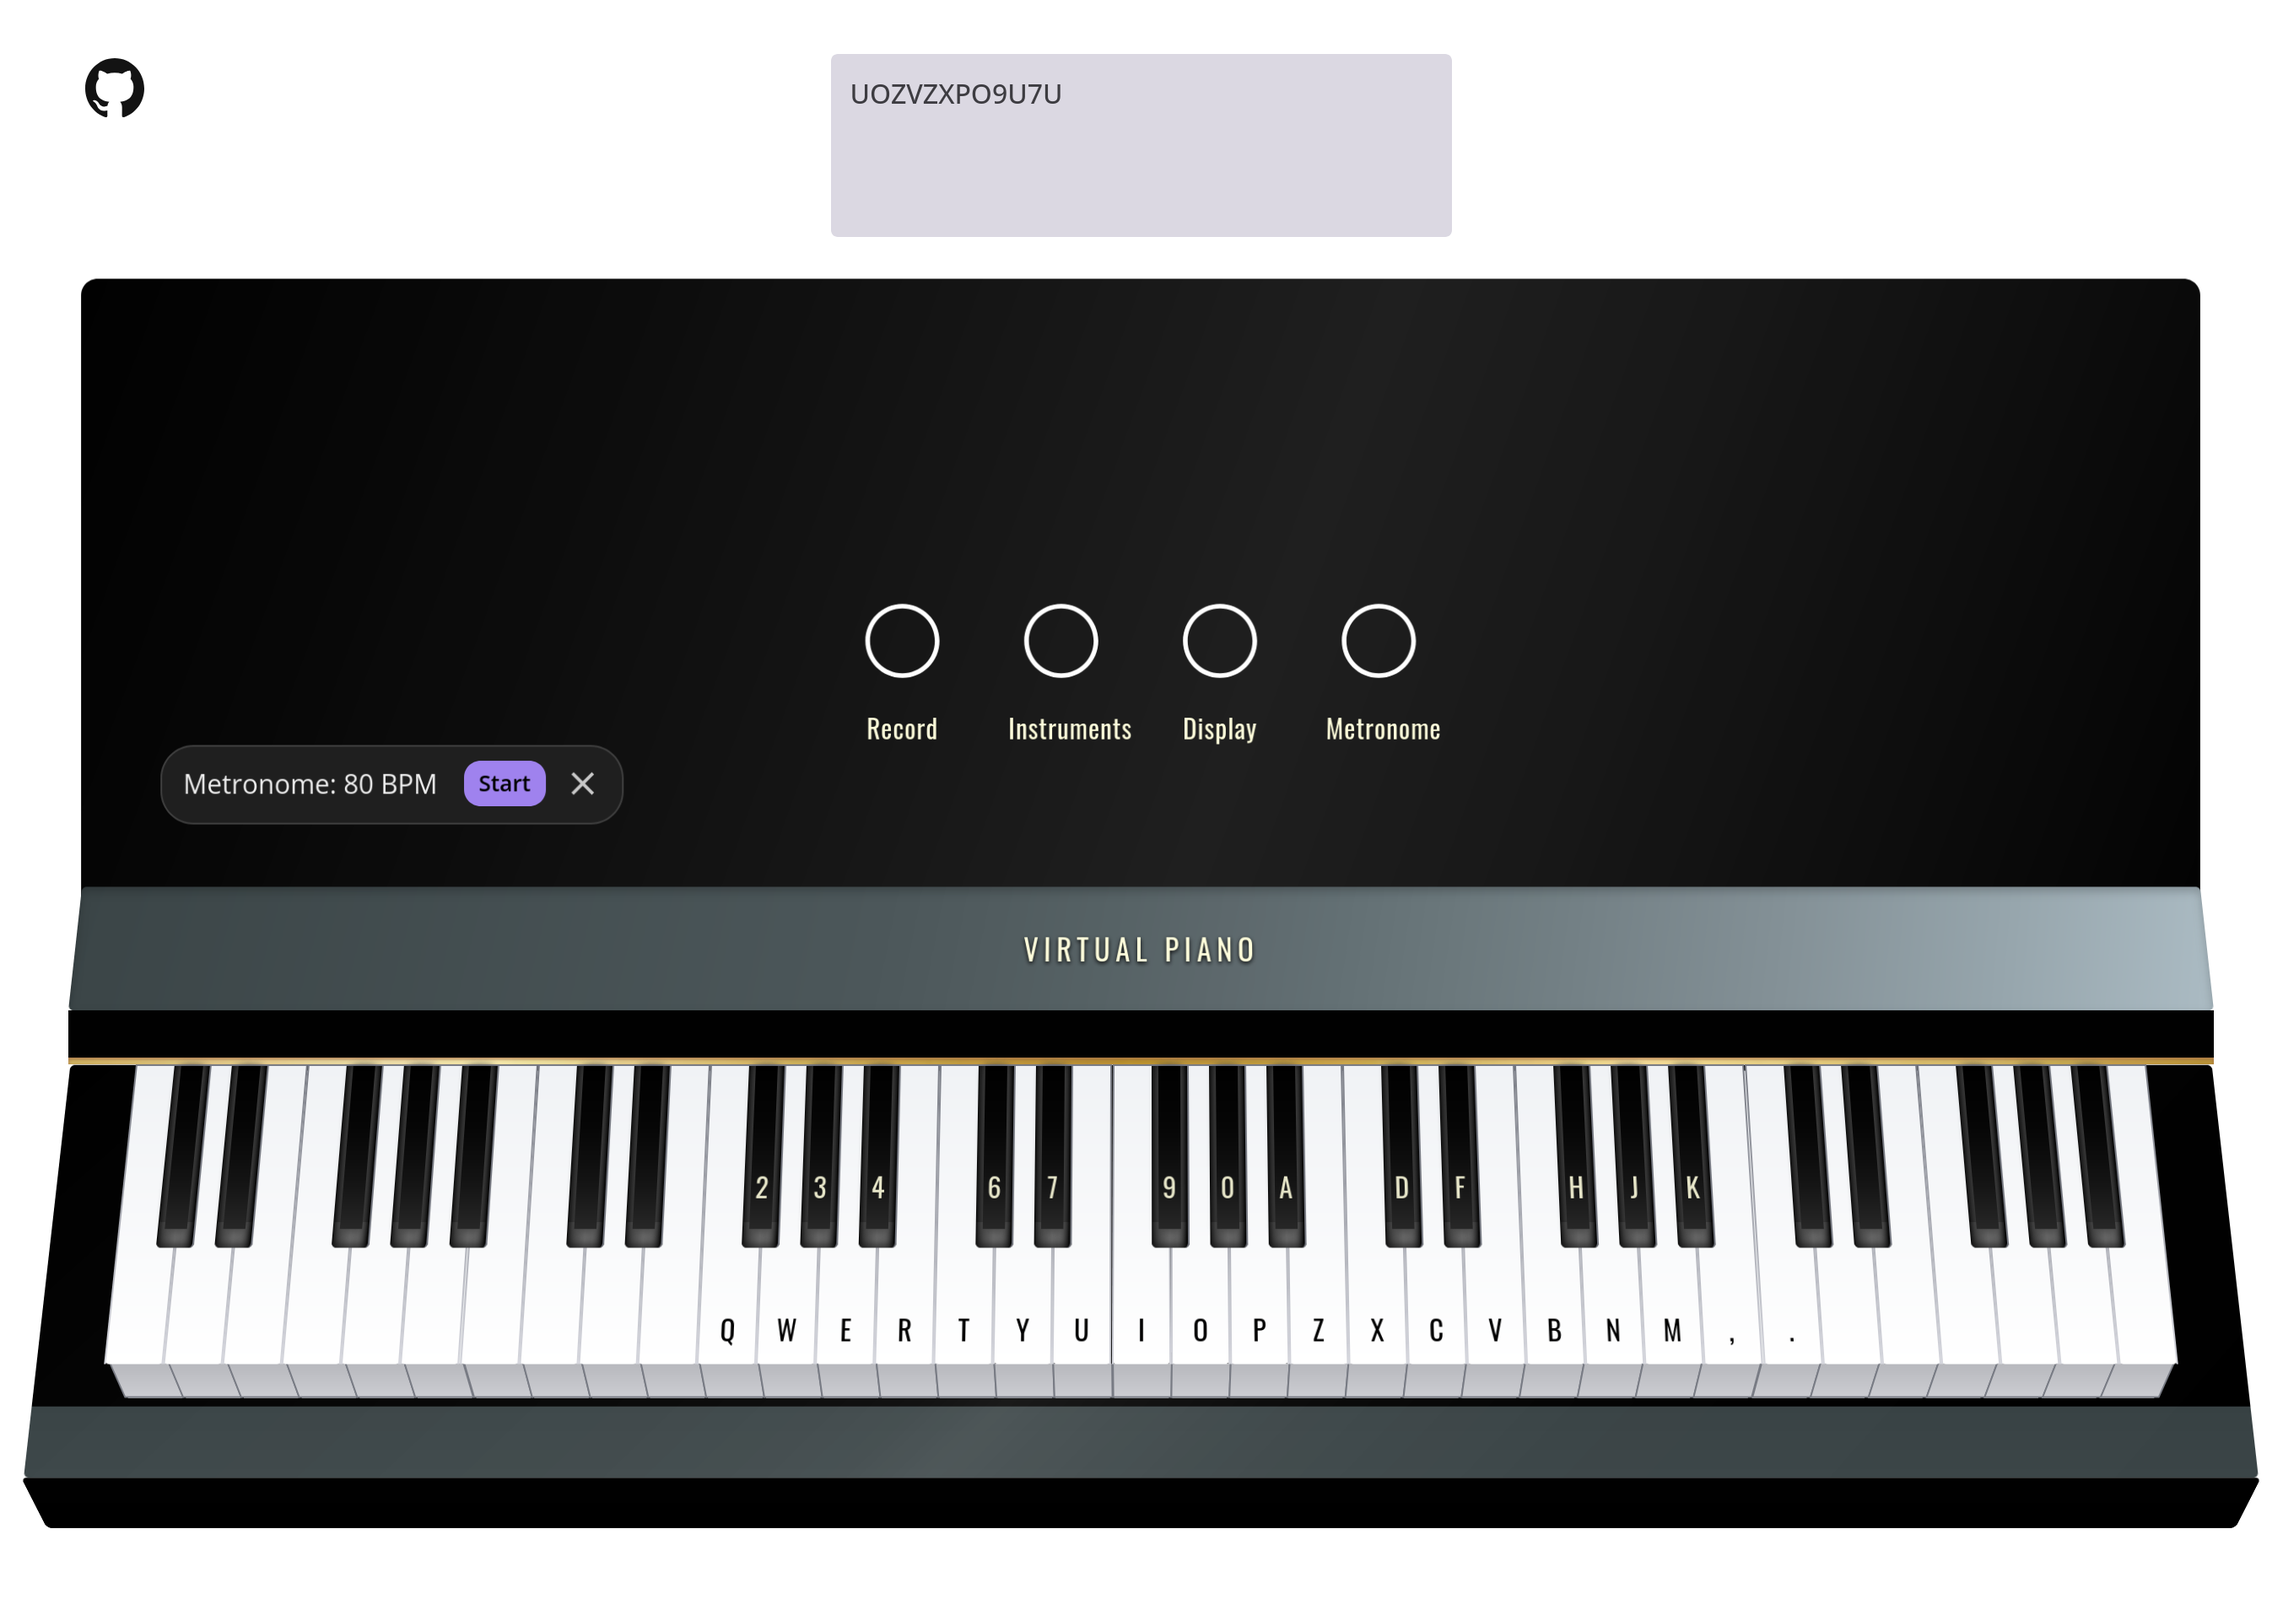
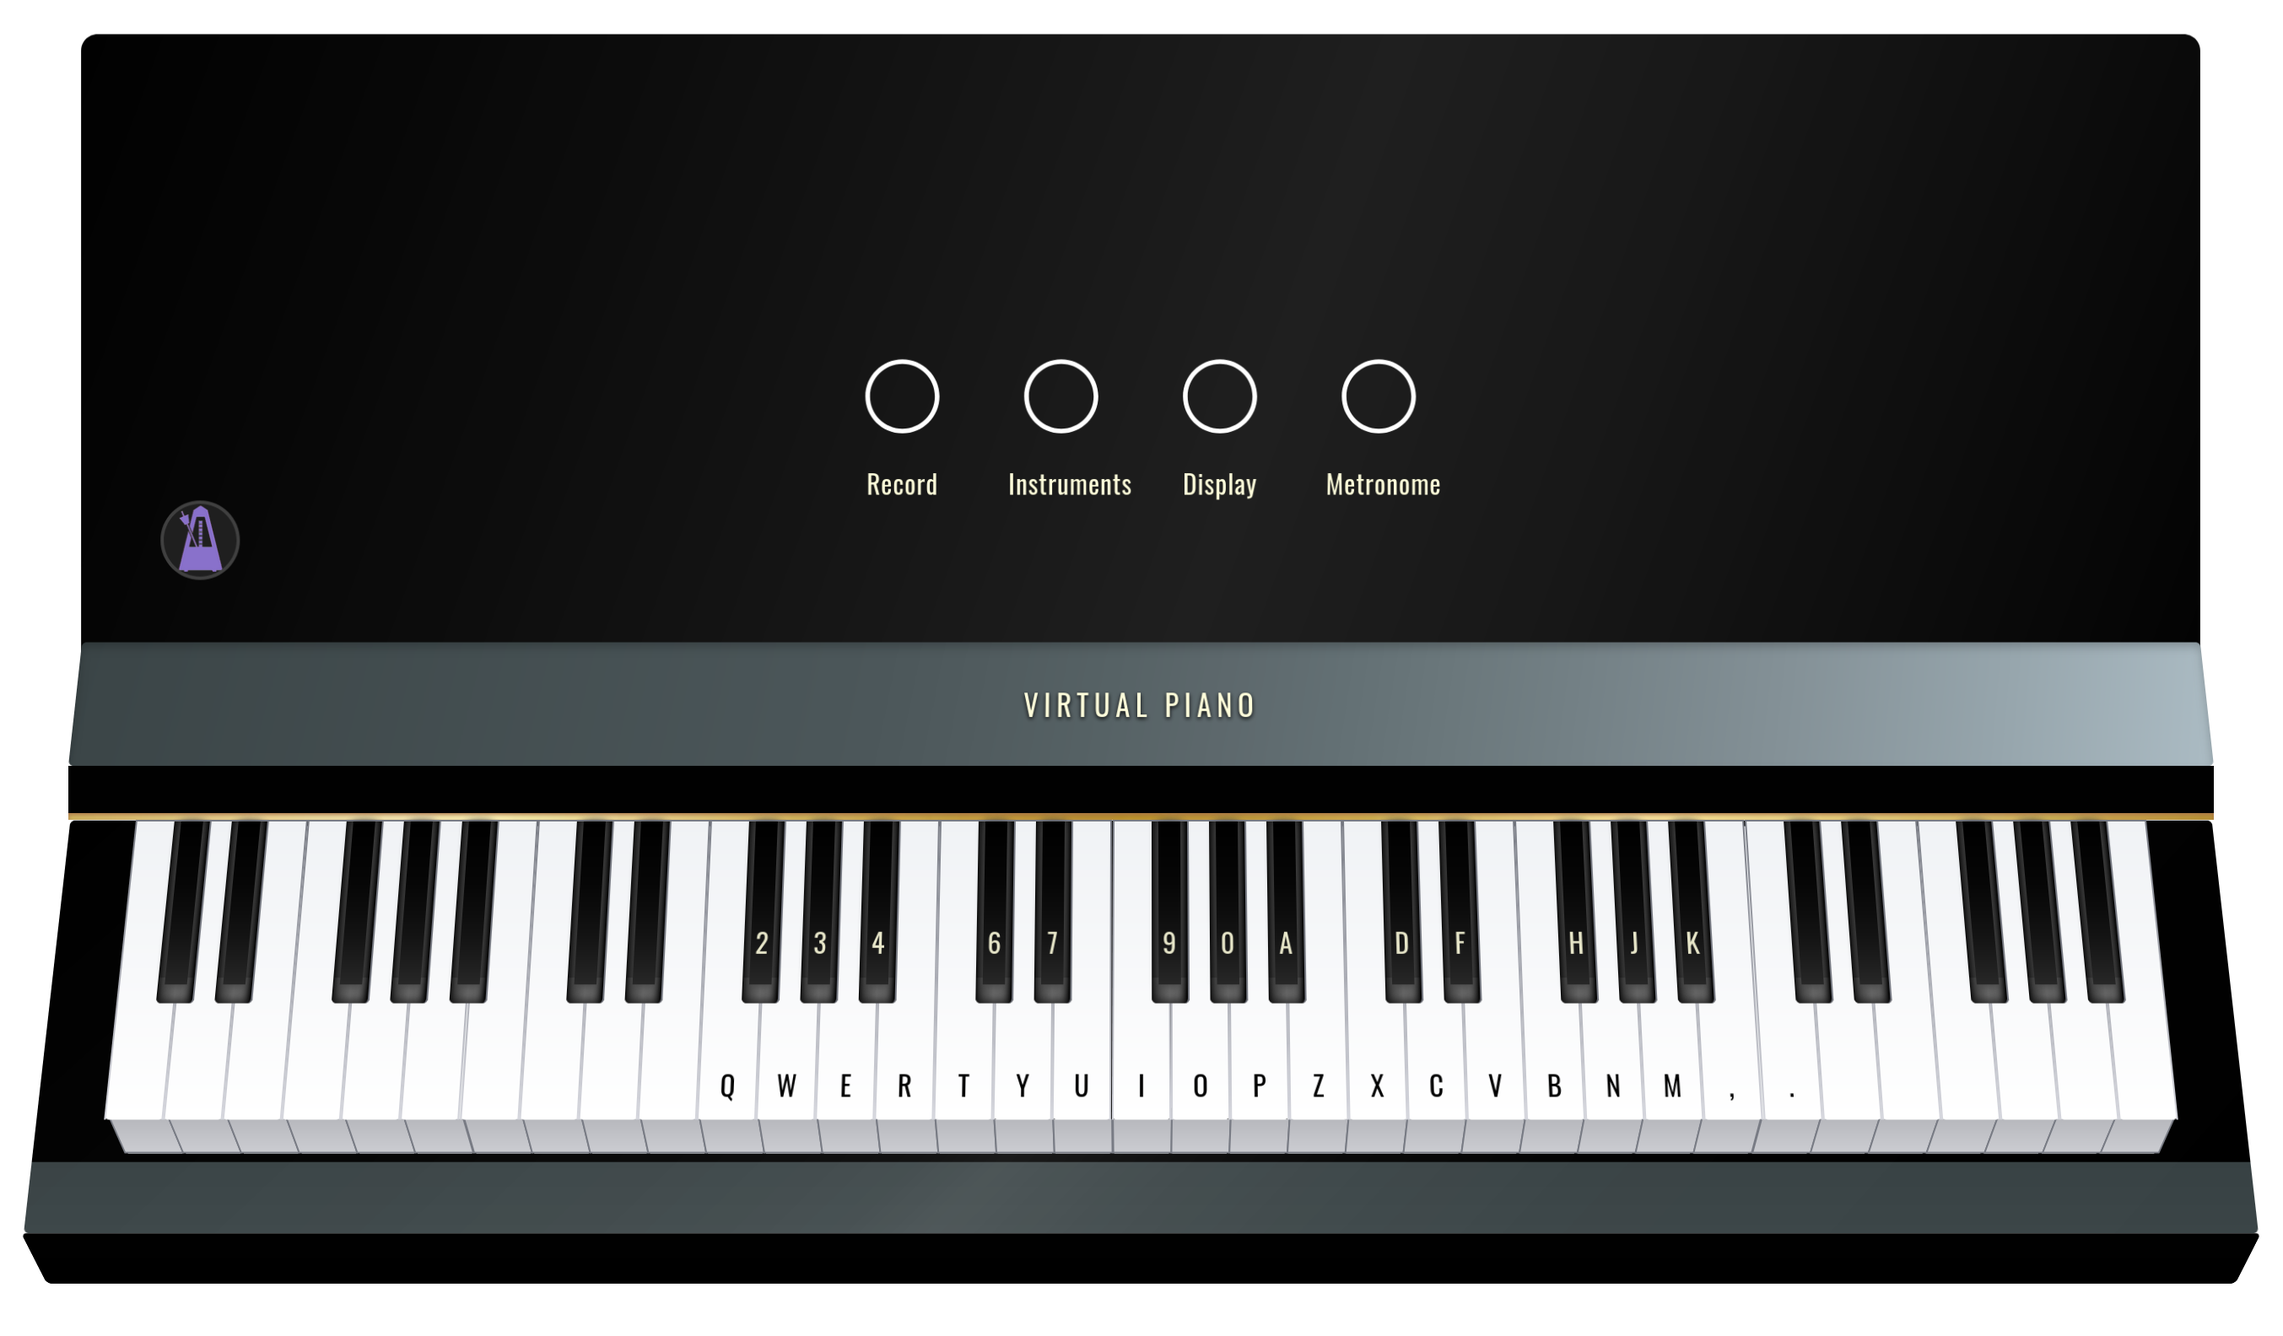
Edit README.md

diff --git a/README.md b/README.md
@@ -16,3 +16,8 @@ Go to 'Your Recordings' to view your recordings. You may download, delete, and r
 ![View of instruments](assets/piano_instruments.png)
 
 [View full list of available instruments here.](https://raw.githubusercontent.com/danigb/soundfont-player/master/names/musyngkite.json)
+
+## Metronome
+![View of metronome](assets/piano_metronome.png)
+
+Click / drag to change the tempo.  Click 'start' to begin, and click the resize button to minimize the metronome window.
